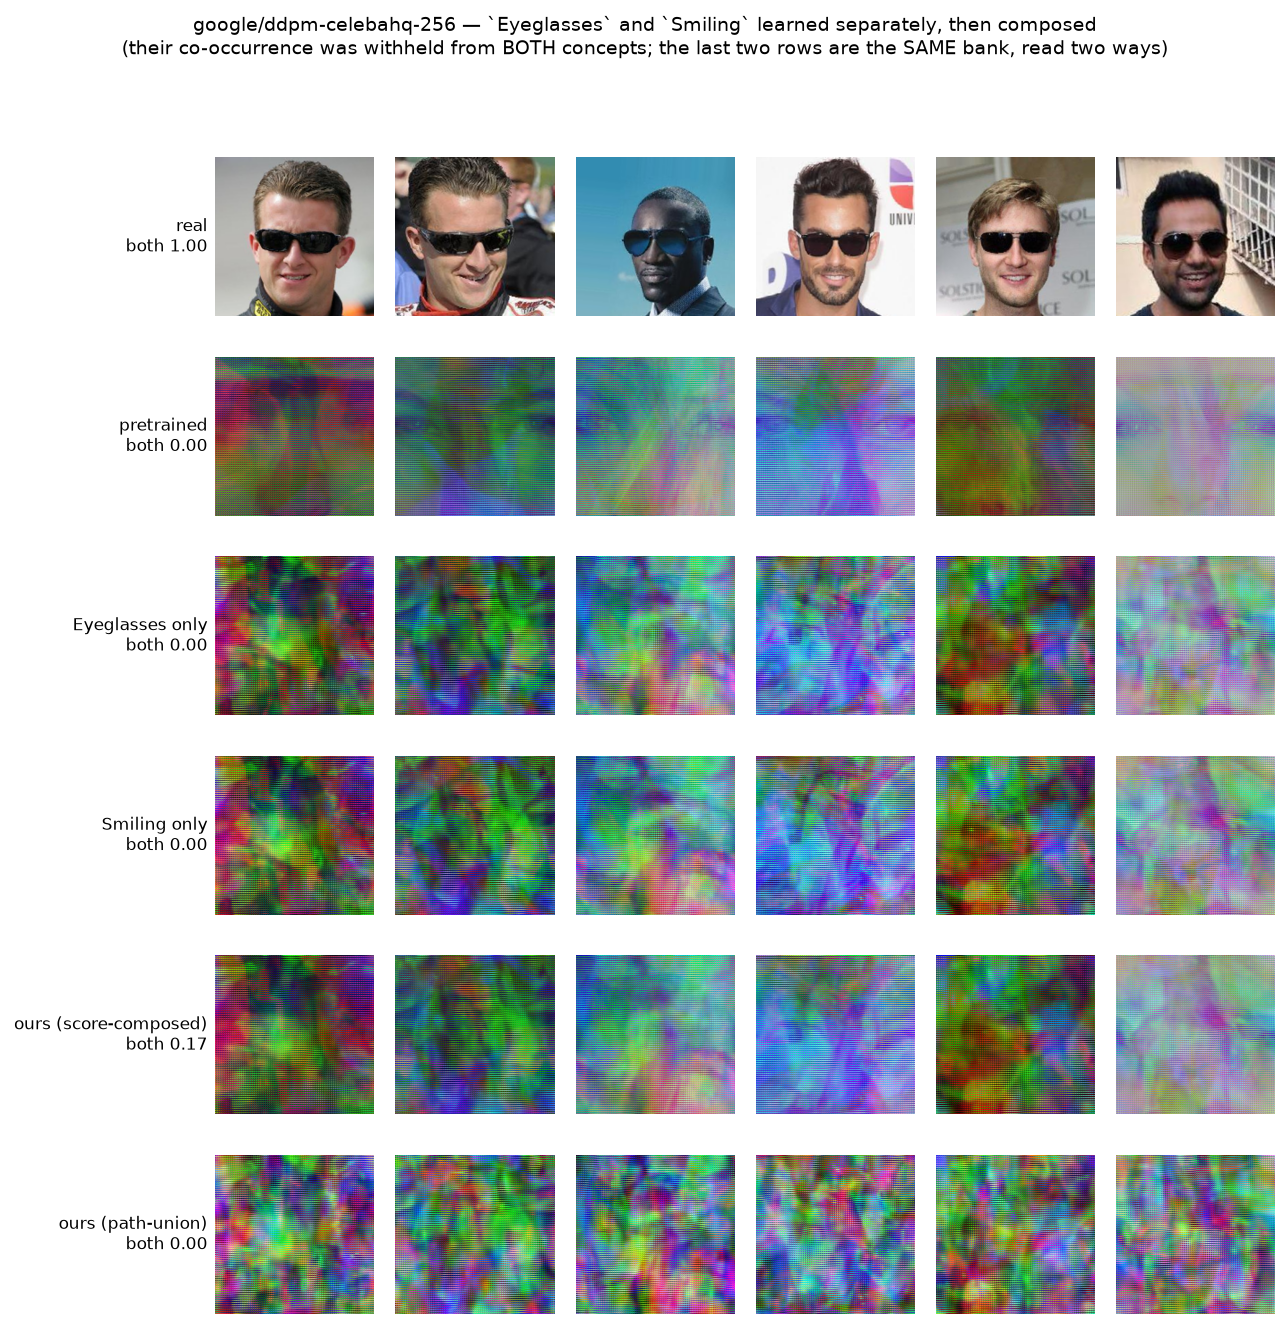
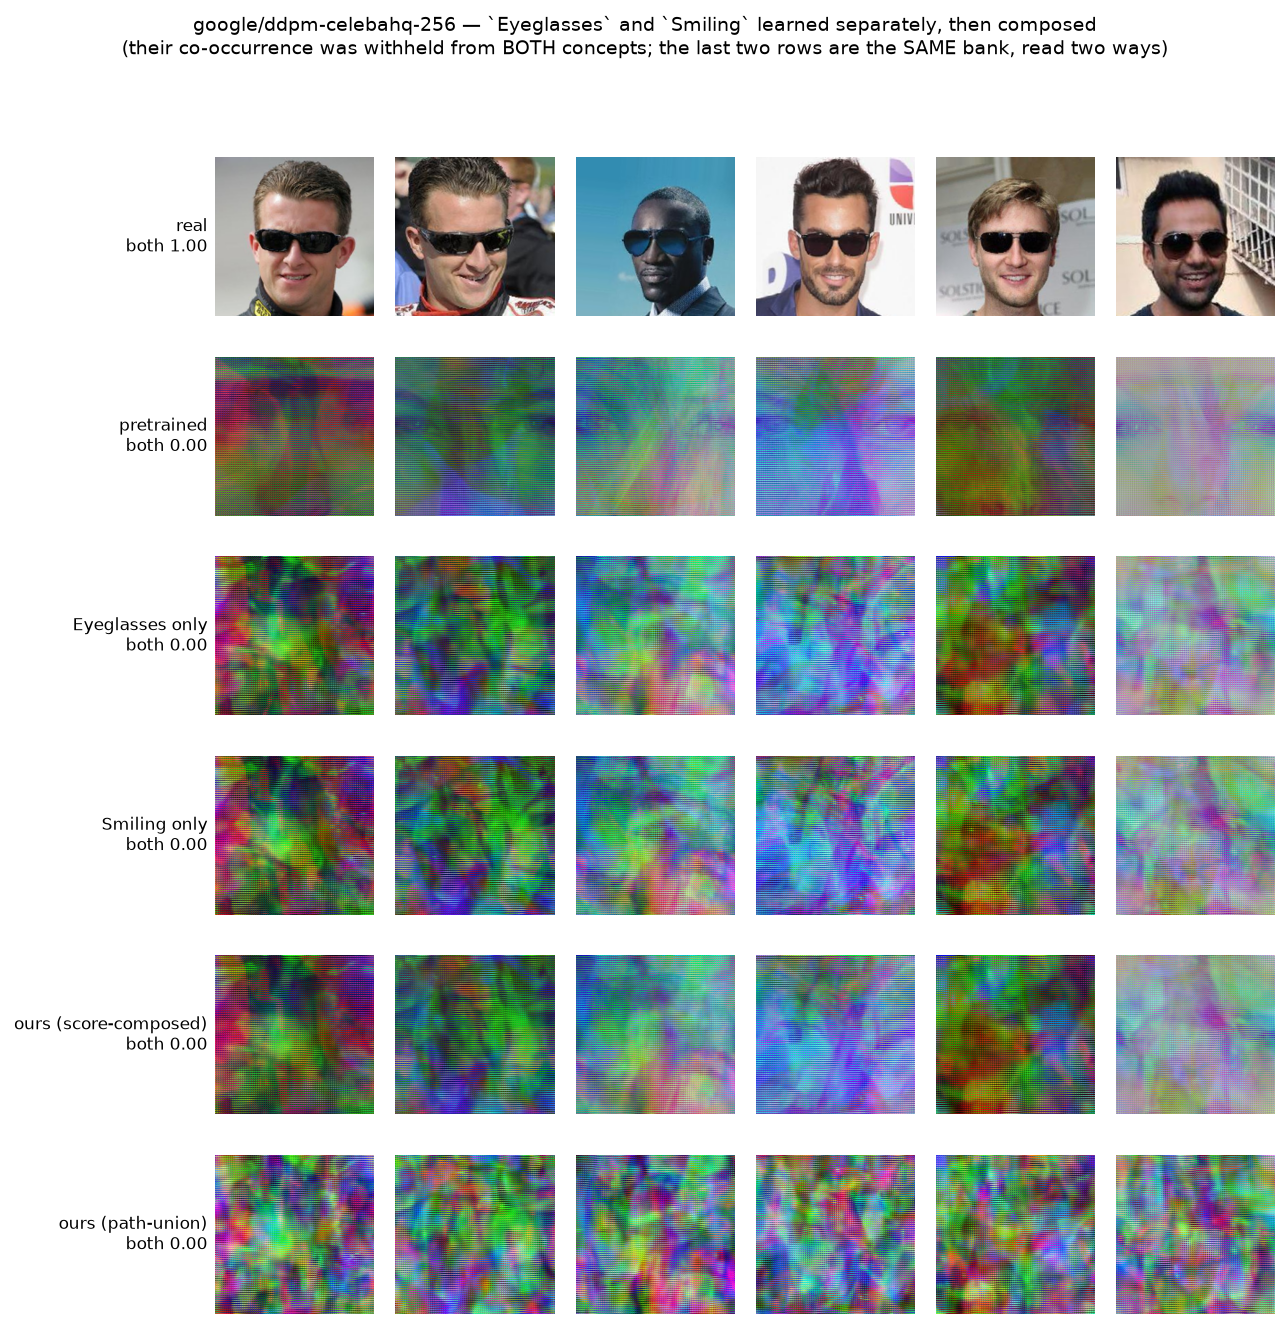
The clamp changed the numbers and not the pictures; test whether Adam is the fault
The re-run figure is the clamped one and the prototypes are still posterized into flat
regions of pure saturated colour.  That is the tell: it is not 'a bit out of range', it
is a large fraction of coordinates sitting at EXACTLY the boundary, which is what
clipping does to values driven past it.  The values still arrive at the edge; they just
stop there now.

So the question is why ascent drives 30-40% of coordinates to the edge, and the suspect
is the optimizer.  mode_ascent uses Adam, whose update is normalized: every coordinate
moves by about lr per iteration however small its gradient is.  Near a mode the gradient
vanishes and a plain gradient step vanishes with it -- Adam's does not, it keeps taking
same-sized steps and marches.

Added a plain-gradient option, scaled by (1-abar) so lr means the same thing at every
noise level, and diag_ascent_quality measures both the out-of-range fraction AND the
model's own eps error at the returned point -- the quantity ascent is supposed to be
reducing.  A setting whose eps error is worse than the query it started from has not
found a mode of anything, and that is the check that decides this rather than my
guessing at mechanisms a fourth time.

Changed region(s): [[0.6522, 0.5866, 0.7143, 0.6483]]

diff --git a/tests/diag_ascent_quality.py b/tests/diag_ascent_quality.py
@@ -1,0 +1,82 @@
+"""Is mode ascent finding a MODE, or just marching to the boundary?
+
+The prototypes are posterized into flat regions of pure saturated colour.  That is not "a bit out of
+range": it is a large fraction of coordinates sitting at EXACTLY the boundary, which is what
+clipping does to values that were driven past it.  Clamping therefore changed the numbers and not
+the pictures -- the values still arrive at the edge, they just stop there.
+
+So the question is why ascent drives 30-40% of coordinates to the edge at all, and the suspect is
+the optimizer.  `mode_ascent` uses **Adam**, whose update is normalized: every coordinate moves by
+about `lr` per iteration regardless of how large its gradient is.  Near a mode the gradient goes to
+zero and a plain gradient step goes to zero with it -- Adam's does not, it keeps taking
+same-sized steps and marches.  Over 100 iterations at lr 0.09 that is a walk of up to 9 units in a
+space one unit wide.
+
+This measures, for each optimizer and step size:
+
+  * `frac |x0| > 1`  -- how much of the result is off the valid range
+  * `eps error`      -- the model's own denoising error at the returned point, which is the thing
+                        ascent is supposed to be REDUCING.  If a setting produces a worse eps error
+                        than the query it started from, it has not found a mode of anything.
+
+The query's own eps error is printed as the bar to beat.
+
+    python tests/diag_ascent_quality.py
+"""
+import os
+import sys
+
+import numpy as np
+import torch
+
+sys.path.insert(0, os.path.dirname(os.path.dirname(os.path.abspath(__file__))))
+sys.path.insert(0, os.path.join(os.path.dirname(os.path.dirname(os.path.abspath(__file__))),
+                                "experiments"))
+
+from lifelong_ood.score import cosine_abar                                     # noqa: E402
+
+
+def eps_err(field, x0, u, rng):
+    """Mean squared eps-prediction error of the model at a candidate x0, at noise level u."""
+    a = float(cosine_abar(u))
+    e = rng.standard_normal(np.atleast_2d(x0).shape)
+    xt = np.sqrt(a) * np.atleast_2d(x0) + np.sqrt(1 - a) * e
+    return float(np.mean((field.eps(xt, u) - e) ** 2))
+
+
+def main():
+    from lifelong_ood.celeba import load_celeba
+    from lifelong_ood.neural import to_model
+    from lifelong_ood.neural.pretrained import load_pretrained
+    dev = "cuda" if torch.cuda.is_available() else "cpu"
+    field, img = load_pretrained("google/ddpm-celebahq-256", device=dev, batch=4)
+    data = load_celeba(n_per_class=4, img=img, seed=0, min_count=25, max_rows=4000)
+    xq = to_model(np.asarray(data["X"])[:1]).ravel()
+    rng = np.random.default_rng(0)
+
+    u = 0.15
+    print(f"[quality] pretrained backbone, u={u}; the QUERY's own eps error is the bar to beat\n")
+    q = eps_err(field, xq, u, np.random.default_rng(1))
+    print(f"  {'setting':34s} {'frac |x0|>1':>12s} {'eps error':>11s}   (query {q:.4f})")
+    for label, kw in (
+            ("Adam  lr 0.09  100it (the paper)", dict(lr=0.09, iters=100, adam=True)),
+            ("Adam  lr 0.02  100it",             dict(lr=0.02, iters=100, adam=True)),
+            ("Adam  lr 0.09   20it",             dict(lr=0.09, iters=20, adam=True)),
+            ("plain lr 0.09  100it",             dict(lr=0.09, iters=100, adam=False)),
+            ("plain lr 0.30  100it",             dict(lr=0.30, iters=100, adam=False)),
+            ("plain lr 1.00  100it",             dict(lr=1.00, iters=100, adam=False))):
+        _, x0 = field.mode_ascent(xq, u, n_starts=4, seed=0, init="query", clamp=False,
+                                  tweedie=True, **kw)
+        x0 = np.asarray(x0)
+        frac = float((np.abs(x0) > 1.0).mean())
+        err = eps_err(field, np.clip(x0, -1, 1), u, np.random.default_rng(1))
+        flag = "  <-- worse than the query" if err > q else ""
+        print(f"  {label:34s} {frac:12.4f} {err:11.4f}{flag}")
+    print("\n[quality] Adam's normalized step does not shrink as the gradient vanishes, so it keeps\n"
+          "          moving after it has arrived.  A plain gradient step scales with the gradient and\n"
+          "          settles.  Whichever gives a low eps error AND stays in range is the right one.")
+    return 0
+
+
+if __name__ == "__main__":
+    sys.exit(main())

diff --git a/lifelong_ood/score.py b/lifelong_ood/score.py
@@ -160,7 +160,7 @@ class BaseScoreField:
 
     # ── mode ascent on p_t (the paper's Eq. 4) ──────────────────────────────
     def mode_ascent(self, xq, u, n_starts=16, iters=100, lr=0.05, seed=0, init="query",
-                    clamp=True, k_sigma=3.0, tweedie=True):
+                    clamp=True, k_sigma=3.0, tweedie=True, adam=True):
         """Adam ascent on log p_t from noised copies of the query -> (modes in x_t space, x0-space).
 
         `clamp` keeps the ascent on the DATA'S SUPPORT, and without it this walks off into nonsense.
@@ -189,9 +189,16 @@ class BaseScoreField:
         bound = np.sqrt(a) + k_sigma * np.sqrt(max(1.0 - a, 0.0))
         for i in range(1, iters + 1):
             g = self.score(x, u)
-            m = b1 * m + (1 - b1) * g
-            v = b2 * v + (1 - b2) * g * g
-            x = x + lr * (m / (1 - b1 ** i)) / (np.sqrt(v / (1 - b2 ** i)) + eps)
+            if adam:
+                m = b1 * m + (1 - b1) * g
+                v = b2 * v + (1 - b2) * g * g
+                x = x + lr * (m / (1 - b1 ** i)) / (np.sqrt(v / (1 - b2 ** i)) + eps)
+            else:
+                # plain gradient ascent, scaled by the noise level so `lr` means the same thing at
+                # every u: the score has magnitude ~1/sqrt(1-abar), so multiplying it back by
+                # (1-abar) puts the step in x-units.  Unlike Adam this step SHRINKS as the gradient
+                # vanishes, which is what makes it settle at a mode instead of marching past it.
+                x = x + lr * (1.0 - a) * g
             if clamp:
                 x = np.clip(x, -bound, bound)
         # x0-space mode by TWEEDIE, not by rescaling.  `x / sqrt(abar)` is the noisy point divided
